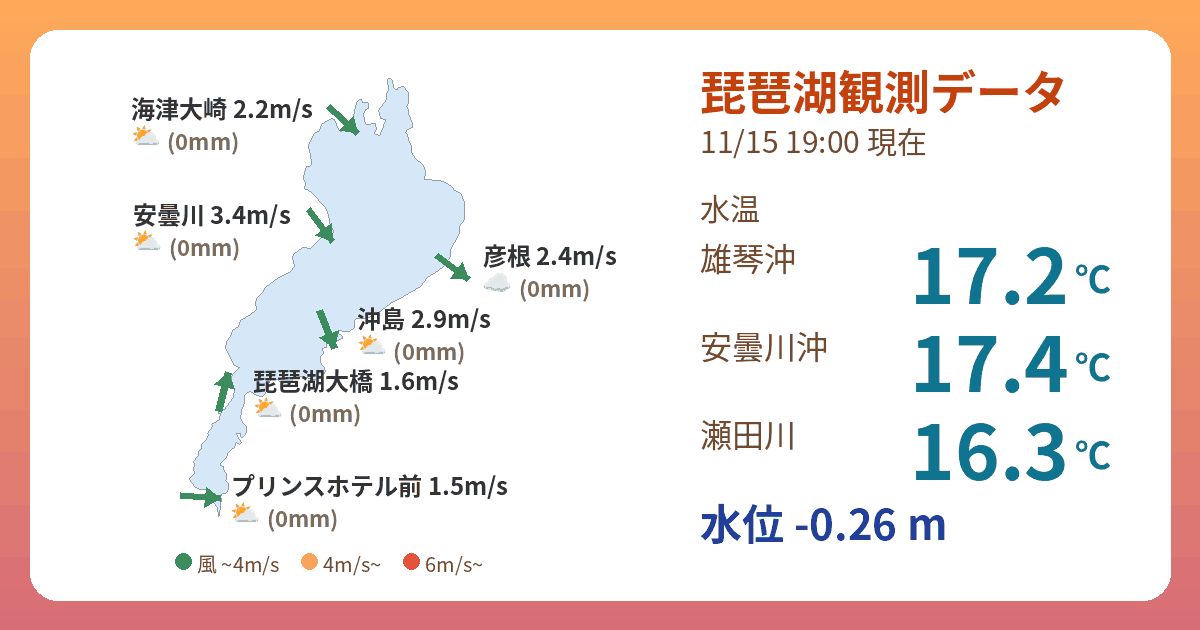
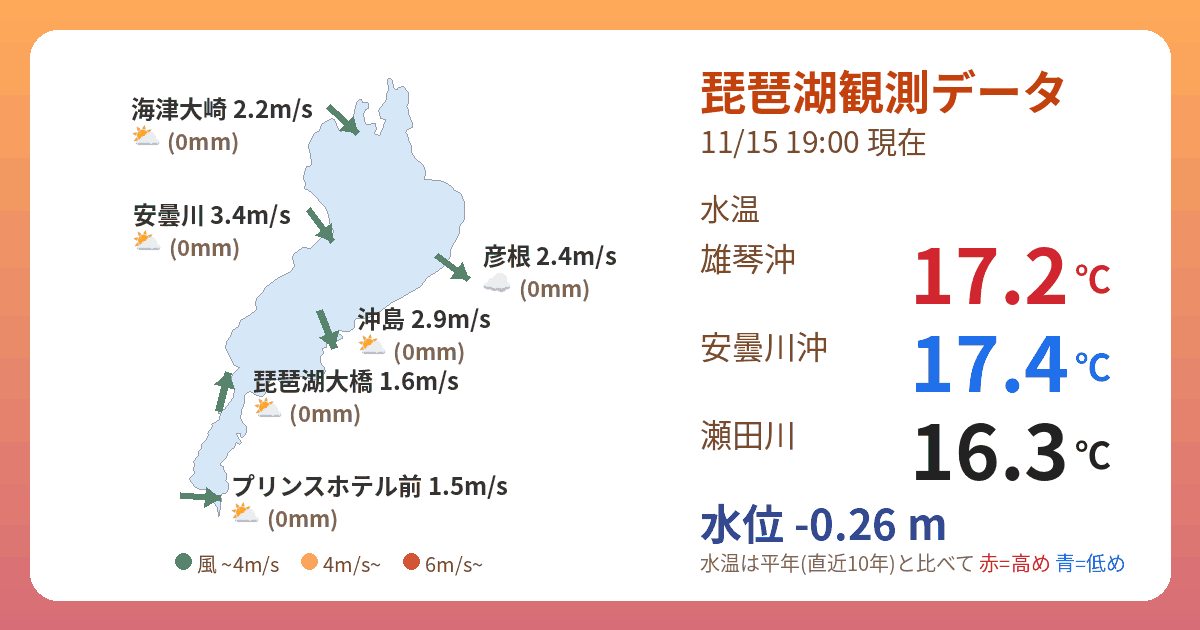
共有画像の水温を平年と比べて色分け
Claude-Session: https://claude.ai/code/session_01TX6WTKnYULGizqPprBYqMx

diff --git a/tools/make_share.py b/tools/make_share.py
@@ -1,5 +1,6 @@
 """SNSカード用の share.html / share.png を最新データから作る。"""
-import csv, glob, html, math, os, re, sys
+import csv, glob, html, json, math, os, re, sys
+from datetime import date
 from pathlib import Path
 from PIL import Image, ImageDraw, ImageFont
 
@@ -17,6 +18,20 @@ def latest():
                 continue
             last[(r["place"], k)] = (r["time"], float(r[k]))
     return last
+
+def load_clim():
+    try:
+        src = (ROOT / "index.html").read_text(encoding="utf-8")
+        return json.loads(re.search(r"const CLIM=(\{.*?\});\n", src, re.S).group(1))["r10"]
+    except Exception as e:
+        print("clim skipped:", e, file=sys.stderr)
+        return {}
+
+def clim_at(c, when):  # サイトの climAt と同じ補間
+    mon, day = int(when[5:7]), int(when[8:10])
+    i = (date(2000, mon, day) - date(2000, 1, 1)).days
+    g = min(i / 5, 72.999); k = int(g); f = g - k
+    return c["m"][k] * (1 - f) + c["m"][k + 1] * f, c["s"][k] * (1 - f) + c["s"][k + 1] * f
 
 def font(size, bold=True):
     names = ["NotoSansCJK-Bold.ttc", "NotoSansCJK-Regular.ttc"] if bold else ["NotoSansCJK-Regular.ttc"]
@@ -39,12 +54,13 @@ def emoji(im, ch, xy, size):
 def main():
     d = latest()
     lv = d.get(("琵琶湖(平均)", "level"))
-    temps = [(lab, d[(p, "temp")]) for p, lab in TEMPS if (p, "temp") in d]
+    temps = [(lab, d[(p, "temp")], p) for p, lab in TEMPS if (p, "temp") in d]
+    CL = load_clim()
     when = max([v[0] for v in d.values()]) if d else ""
     hhmm = when[11:16]; md = "%d/%d" % (int(when[5:7]), int(when[8:10])) if when else ""
     parts = []
     if temps:
-        parts.append("水温 " + " ".join("%s%.1f℃" % (l, t[1]) for l, t in temps))
+        parts.append("水温 " + " ".join("%s%.1f℃" % (l, t[1]) for l, t, _p in temps))
     if lv:
         parts.append("水位 %+.2fm" % lv[1])
     title = "琵琶湖観測データ %s %s現在" % (md, hhmm)
@@ -112,13 +128,21 @@ def main():
     g.text((x0, 118), "%s %s 現在" % (md, hhmm), font=font(30, False), fill="#7a4a2a")
     g.text((x0, 185), "水温", font=font(30, False), fill="#7a4a2a")
     y = 215
-    for lab, t in temps:
+    for lab, t, pk in temps:
+        col = "#0e7490"
+        if pk in CL:
+            m_, s_ = clim_at(CL[pk], t[0])
+            dv = t[1] - m_
+            col = "#222222" if abs(dv) < s_ * 0.5 else ("#d1242f" if dv > 0 else "#1f6feb")
         g.text((x0, y + 18), lab, font=font(32, False), fill="#7a4a2a")
-        g.text((x0 + 210, y), "%.1f" % t[1], font=font(76), fill="#0e7490")
-        g.text((x0 + 210 + g.textlength("%.1f" % t[1], font=font(76)) + 6, y + 36), "℃", font=font(36), fill="#0e7490")
+        g.text((x0 + 210, y), "%.1f" % t[1], font=font(76), fill=col)
+        g.text((x0 + 210 + g.textlength("%.1f" % t[1], font=font(76)) + 6, y + 36), "℃", font=font(36), fill=col)
         y += 88
     if lv:
         g.text((x0, y + 12), "水位 %+.2f m" % lv[1], font=font(42), fill="#1e40af")
+    fn_ = font(20, False); nx = x0
+    for txt, c_ in (("水温は平年(直近10年)と比べて ", "#7a6a5a"), ("赤=高め ", "#d1242f"), ("青=低め", "#1f6feb")):
+        g.text((nx, y + 68), txt, font=fn_, fill=c_); nx += g.textlength(txt, font=fn_)
     im = im.quantize(colors=48, method=Image.Quantize.MEDIANCUT, dither=Image.Dither.NONE)
     im.save(ROOT / "share.png", optimize=True)
 
